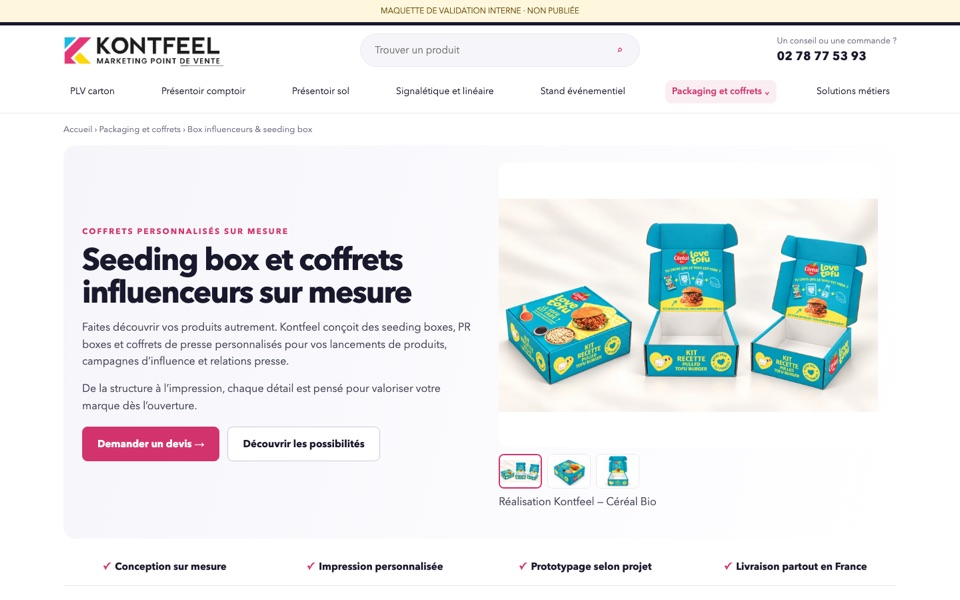
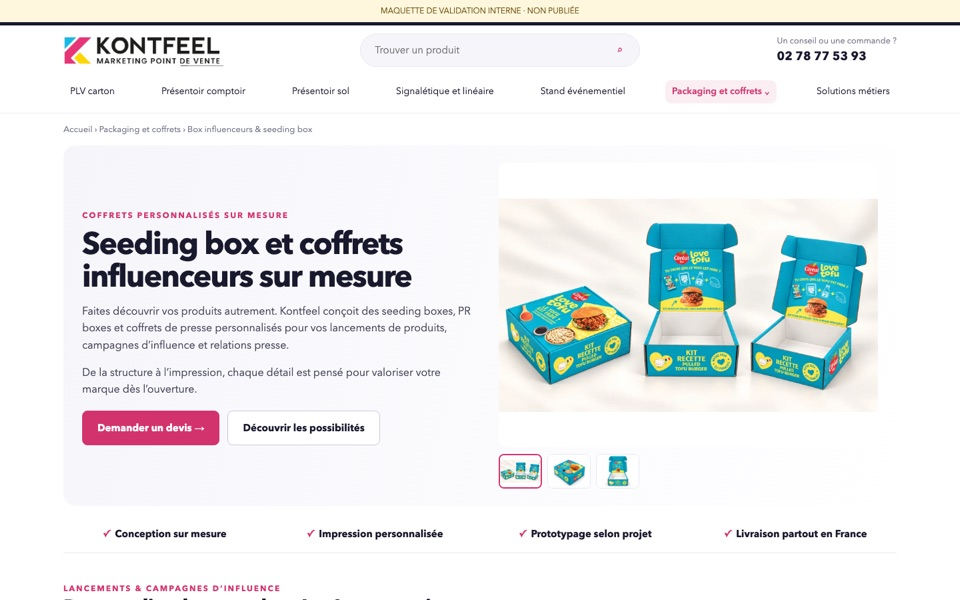
Seeding box : suppression des légendes « Réalisation Kontfeel — Céréal Bio »

diff --git a/seeding-box.html b/seeding-box.html
@@ -4,12 +4,12 @@
 <a class="skip" href="#main">Aller au contenu</a><div class="demo">MAQUETTE DE VALIDATION INTERNE · NON PUBLIÉE</div>
 <header><div class="wrap top"><img alt="Kontfeel – Marketing point de vente" class="logo" src="assets/seeding-box/visuel-1.jpg"><form class="search" action="https://www.kontfeel.fr/" id="topsearch"><input aria-label="Rechercher un produit" placeholder="Trouver un produit" name="q"><button style="border:0;background:none;color:var(--pink)" type="submit" aria-label="Rechercher">⌕</button></form><a class="phone" href="tel:+33278775393"><small>Un conseil ou une commande ?</small><strong>02 78 77 53 93</strong></a></div><nav class="wrap nav" aria-label="Navigation principale"><a href="https://www.kontfeel.fr/">PLV carton</a><a href="https://kontfeel-refonte-plv.vercel.app/p2.html">Présentoir comptoir</a><a href="https://www.kontfeel.fr/presentoir-sol/mobilier-permanent">Présentoir sol</a><a href="https://www.kontfeel.fr/">Signalétique et linéaire</a><a href="https://www.kontfeel.fr/">Stand événementiel</a><a class="active" href="https://www.kontfeel.fr/plv-packaging">Packaging et coffrets ⌄</a><a href="https://www.kontfeel.fr/solutions-metiers">Solutions métiers</a></nav></header>
 <main id="main"><div class="wrap"><div class="crumb"><a href="https://www.kontfeel.fr/">Accueil</a> › <a href="https://www.kontfeel.fr/plv-packaging">Packaging et coffrets</a> › Box influenceurs &amp; seeding box</div>
-<section class="hero"><div><span class="eyebrow">COFFRETS PERSONNALISÉS SUR MESURE</span><h1>Seeding box et coffrets influenceurs sur mesure</h1><p>Faites découvrir vos produits autrement. Kontfeel conçoit des seeding boxes, PR boxes et coffrets de presse personnalisés pour vos lancements de produits, campagnes d’influence et relations presse.</p><p>De la structure à l’impression, chaque détail est pensé pour valoriser votre marque dès l’ouverture.</p><div class="actions"><a class="btn" href="#devis">Demander un devis →</a><a class="btn secondary" href="#concepts">Découvrir les possibilités</a></div></div><div><img class="hero-photo" id="heroPhoto" alt="Trois vues du coffret Céréal Bio Love Tofu conçu par Kontfeel" src="assets/seeding-box/visuel-2.webp" fetchpriority="high"><div class="thumbs" aria-label="Autres visuels"><button class="selected" data-alt="Trois vues du coffret Céréal Bio Love Tofu conçu par Kontfeel" data-note="Réalisation Kontfeel — Céréal Bio" aria-label="Voir les trois vues du coffret Céréal Bio"><img src="assets/seeding-box/visuel-2.webp" alt="Céréal Bio – trois vues"></button><button data-alt="Coffret Céréal Bio Love Tofu fermé" data-note="Réalisation Kontfeel — vue coffret fermé" aria-label="Voir le coffret Céréal Bio fermé"><img src="assets/seeding-box/visuel-3.webp" alt="Céréal Bio – coffret fermé"></button><button data-alt="Coffret Céréal Bio Love Tofu ouvert de face" data-note="Réalisation Kontfeel — vue coffret ouvert" aria-label="Voir le coffret Céréal Bio ouvert"><img src="assets/seeding-box/visuel-4.webp" alt="Céréal Bio – coffret ouvert"></button></div><p class="note" id="heroNote">Réalisation Kontfeel — Céréal Bio</p></div></section>
+<section class="hero"><div><span class="eyebrow">COFFRETS PERSONNALISÉS SUR MESURE</span><h1>Seeding box et coffrets influenceurs sur mesure</h1><p>Faites découvrir vos produits autrement. Kontfeel conçoit des seeding boxes, PR boxes et coffrets de presse personnalisés pour vos lancements de produits, campagnes d’influence et relations presse.</p><p>De la structure à l’impression, chaque détail est pensé pour valoriser votre marque dès l’ouverture.</p><div class="actions"><a class="btn" href="#devis">Demander un devis →</a><a class="btn secondary" href="#concepts">Découvrir les possibilités</a></div></div><div><img class="hero-photo" id="heroPhoto" alt="Trois vues du coffret Céréal Bio Love Tofu conçu par Kontfeel" src="assets/seeding-box/visuel-2.webp" fetchpriority="high"><div class="thumbs" aria-label="Autres visuels"><button class="selected" data-alt="Trois vues du coffret Céréal Bio Love Tofu conçu par Kontfeel" aria-label="Voir les trois vues du coffret Céréal Bio"><img src="assets/seeding-box/visuel-2.webp" alt="Céréal Bio – trois vues"></button><button data-alt="Coffret Céréal Bio Love Tofu fermé" aria-label="Voir le coffret Céréal Bio fermé"><img src="assets/seeding-box/visuel-3.webp" alt="Céréal Bio – coffret fermé"></button><button data-alt="Coffret Céréal Bio Love Tofu ouvert de face" aria-label="Voir le coffret Céréal Bio ouvert"><img src="assets/seeding-box/visuel-4.webp" alt="Céréal Bio – coffret ouvert"></button></div></div></section>
 <div class="benefits"><div><span>✓</span>Conception sur mesure</div><div><span>✓</span>Impression personnalisée</div><div><span>✓</span>Prototypage selon projet</div><div><span>✓</span>Livraison partout en France</div></div></div>
 <section class="section wrap" id="concepts"><div class="gallery-heading"><span class="eyebrow">LANCEMENTS &amp; CAMPAGNES D’INFLUENCE</span><h2>Des seeding boxes adaptées à votre univers</h2><p class="sub">Imaginez un coffret qui met en scène vos produits, transmet votre message et crée une expérience de découverte mémorable.</p></div><div class="cases"><article class="case"><img loading="lazy" src="assets/seeding-box/visuel-5.webp" alt="Box influenceurs beauté avec produits de soin"><div><span class="tag">Concept illustratif · IA</span><h3>Beauté &amp; cosmétique</h3><p>Présenter une nouvelle gamme et révéler chaque soin dans un univers cohérent.</p></div></article><article class="case"><img loading="lazy" src="assets/seeding-box/visuel-6.webp" alt="Seeding box high-tech avec compartiments et rabats imprimés"><div><span class="tag">Concept illustratif · IA</span><h3>High-tech &amp; innovation</h3><p>Scénariser l’ouverture et organiser les accessoires autour du produit phare.</p></div></article><article class="case"><img loading="lazy" src="assets/seeding-box/visuel-7.webp" alt="Coffret influenceurs parfum noir et or"><div><span class="tag">Concept illustratif · IA</span><h3>Parfumerie &amp; luxe</h3><p>Mettre en valeur un lancement sélectif avec une présentation raffinée.</p></div></article></div></section>
 <section class="section band" id="personnalisation"><div class="wrap split"><div><span class="eyebrow">UNE SOLUTION POUR CHAQUE PROJET</span><h2>Votre coffret influenceur, de la conception à l’expédition</h2><p>Nous adaptons le coffret à vos produits, à votre identité de marque et à vos contraintes de campagne. Les formats, matériaux, finitions et modalités logistiques sont étudiés selon votre cahier des charges.</p><p>Notre expertise en marketing point de vente permet aussi de prolonger votre lancement avec des supports PLV assortis.</p><a class="familylink" href="#devis">Parlons de votre projet →</a></div><div class="materials"><article class="material"><h3>Structure &amp; format</h3><p>Boîte à oreilles, coffret à rabat, dimensions et ouverture adaptées.</p></article><article class="material"><h3>Impression &amp; finitions</h3><p>Intérieur et extérieur imprimés, finitions selon votre projet.</p></article><article class="material"><h3>Calage &amp; messages</h3><p>Compartiments, inserts, cartes et personnalisation du destinataire.</p></article><article class="material"><h3>Accompagnement</h3><p>Conception, prototype selon projet et expédition adaptée au brief.</p></article></div></div></section>
-<section class="section wrap split" id="realisation"><div><img class="case-real" loading="eager" referrerpolicy="no-referrer" src="assets/seeding-box/visuel-2.webp" alt="Trois vues du coffret Céréal Bio Love Tofu conçu par Kontfeel"><p class="note">Réalisation Kontfeel — Céréal Bio</p></div><div><span class="eyebrow">UNE RÉALISATION KONTFEEL</span><h2>Céréal Bio — Love Tofu</h2><p>Pour cette campagne d’influence, le coffret intègre directement la recette et le message de marque dans son couvercle. L’ouverture devient ainsi un support de communication à part entière.</p><p><strong>320 × 320 × 130 mm</strong> · Impression intérieure et extérieure · Carton mono-matériau · Montage sans colle ajoutée.</p><a class="btn secondary" href="https://www.kontfeel.fr/realisations-plv/coffret-influenceur-cereal-bio-love-tofu">Découvrir la réalisation →</a></div></section>
+<section class="section wrap split" id="realisation"><div><img class="case-real" loading="eager" referrerpolicy="no-referrer" src="assets/seeding-box/visuel-2.webp" alt="Trois vues du coffret Céréal Bio Love Tofu conçu par Kontfeel"></div><div><span class="eyebrow">UNE RÉALISATION KONTFEEL</span><h2>Céréal Bio — Love Tofu</h2><p>Pour cette campagne d’influence, le coffret intègre directement la recette et le message de marque dans son couvercle. L’ouverture devient ainsi un support de communication à part entière.</p><p><strong>320 × 320 × 130 mm</strong> · Impression intérieure et extérieure · Carton mono-matériau · Montage sans colle ajoutée.</p><a class="btn secondary" href="https://www.kontfeel.fr/realisations-plv/coffret-influenceur-cereal-bio-love-tofu">Découvrir la réalisation →</a></div></section>
 <section class="section band"><div class="wrap"><h2>Questions fréquentes sur les seeding boxes</h2><div class="faq-grid"><details><summary>Qu’est-ce qu’une seeding box ?</summary><p>Un coffret personnalisé destiné aux créateurs de contenu, journalistes ou partenaires pour leur faire découvrir les produits d’une marque lors d’une campagne de communication.</p></details><details><summary>Quelle différence avec un coffret de presse ?</summary><p>Le coffret de presse s’adresse notamment aux médias. La seeding box est généralement pensée pour les campagnes d’influence et l’expérience d’ouverture. Les usages peuvent se recouper.</p></details><details><summary>Peut-on personnaliser le coffret et son intérieur ?</summary><p>Oui, la structure, les dimensions, l’impression, le calage et les supports de communication sont étudiés selon votre brief.</p></details><details><summary>Comment obtenir un devis pour une box influenceur ?</summary><p>Indiquez vos produits, les quantités souhaitées, votre budget et votre échéance. Nous étudions la solution la plus adaptée à votre campagne.</p></details></div><div class="related"><a class="familylink" href="https://www.kontfeel.fr/blog-plv/box-influenceur-coffret-carton-unboxing">Nos conseils pour réussir votre box influenceur →</a><a class="familylink" href="https://www.kontfeel.fr/impression/coffret-carton">Découvrir nos coffrets carton →</a></div></div></section>
 <section class="section wrap" id="devis"><div class="cta"><div><h2>Vous préparez un lancement produit ?</h2><p>Imaginons ensemble le coffret adapté à votre campagne.</p></div><a class="btn" href="https://www.kontfeel.fr/devis">Demander un devis →</a></div></section></main>
 <footer><div class="wrap"><div style="max-width:370px"><img class="footer-logo" alt="Kontfeel" src="assets/seeding-box/visuel-1.jpg"><p>Conception de solutions PLV et packaging sur mesure.</p></div><div><strong>Contact</strong><p>02 78 77 53 93<br>Normandie, France</p></div><div><strong>Informations</strong><p><a href="https://www.kontfeel.fr/">Site actuel ↗</a><br><a href="https://www.kontfeel.fr/realisations">Nos réalisations</a><br><a href="https://www.kontfeel.fr/contact">Nous contacter</a></p></div></div></footer>
-<script>document.querySelectorAll('.thumbs button').forEach(b=>b.addEventListener('click',()=>{let img=document.getElementById('heroPhoto');img.src=b.querySelector('img').src;img.alt=b.dataset.alt;document.getElementById('heroNote').textContent=b.dataset.note;document.querySelectorAll('.thumbs button').forEach(x=>{x.classList.toggle('selected',x===b);x.setAttribute('aria-pressed',String(x===b))})}));document.querySelectorAll('.thumbs button').forEach(b=>b.setAttribute('aria-pressed',String(b.classList.contains('selected'))));document.getElementById('topsearch').addEventListener('submit',e=>{e.preventDefault();location.href='https://www.kontfeel.fr/';});</script></body></html>
+<script>document.querySelectorAll('.thumbs button').forEach(b=>b.addEventListener('click',()=>{let img=document.getElementById('heroPhoto');img.src=b.querySelector('img').src;img.alt=b.dataset.alt;document.querySelectorAll('.thumbs button').forEach(x=>{x.classList.toggle('selected',x===b);x.setAttribute('aria-pressed',String(x===b))})}));document.querySelectorAll('.thumbs button').forEach(b=>b.setAttribute('aria-pressed',String(b.classList.contains('selected'))));document.getElementById('topsearch').addEventListener('submit',e=>{e.preventDefault();location.href='https://www.kontfeel.fr/';});</script></body></html>
